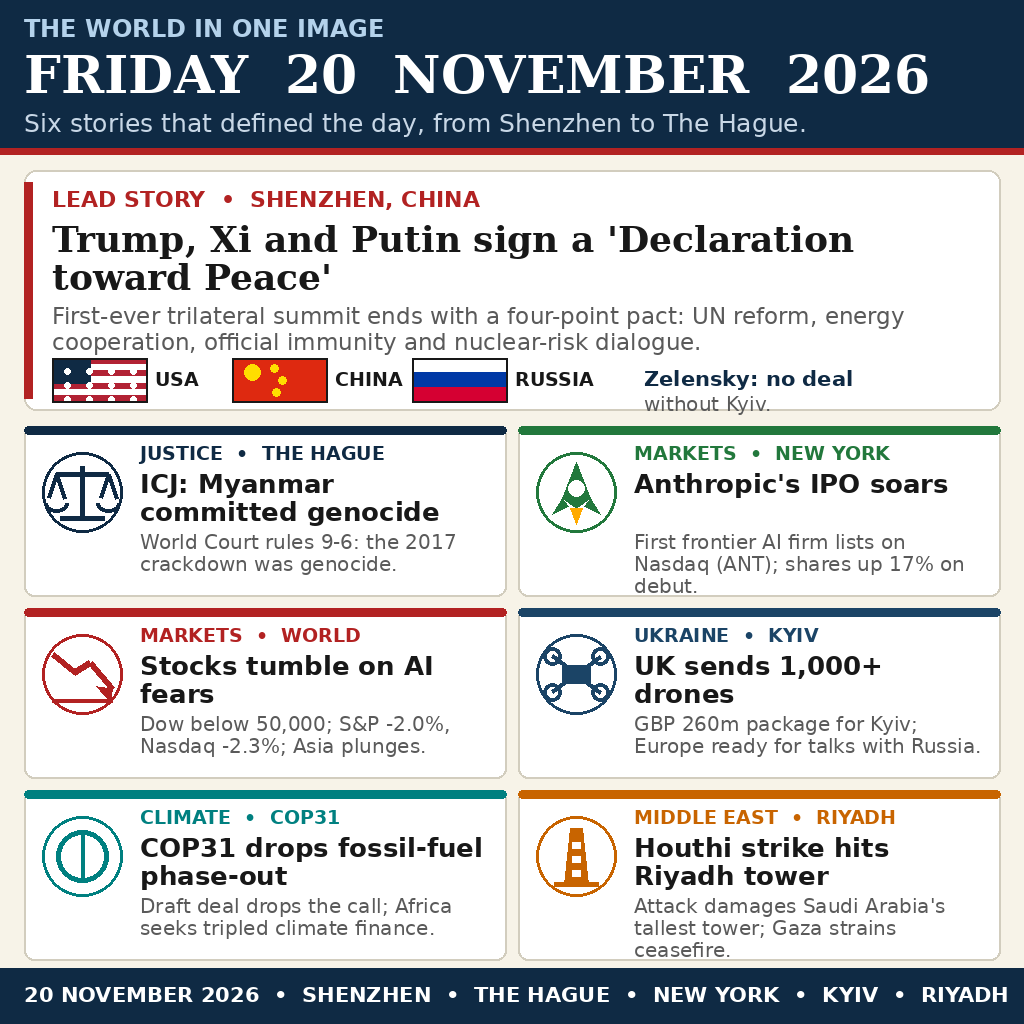
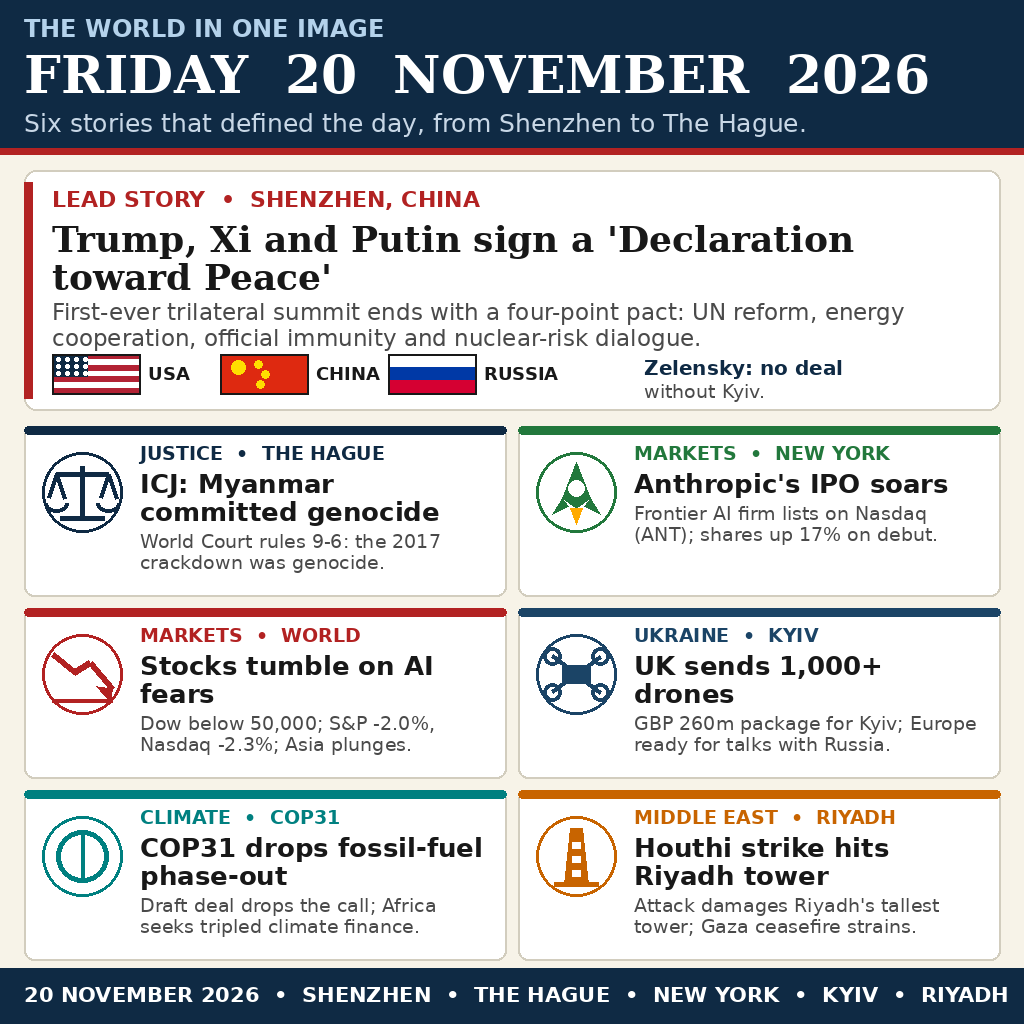
Polish news image: fix flag stars, lead-card spacing, card text clipping
US flag stars now fit the canton, Zelensky note no longer overlaps
RUSSIA label, card bodies flow below titles so nothing is clipped,
body grey darkened for small-size legibility.

diff --git a/draw_image.py b/draw_image.py
@@ -21,7 +21,7 @@ NAVY = (15, 42, 68)
 NAVY_LIGHT = (27, 68, 102)
 RED = (178, 34, 34)
 DARK = (24, 24, 24)
-GREY = (90, 90, 90)
+GREY = (74, 74, 74)
 WHITE = (255, 255, 255)
 CARD = (255, 255, 255)
 TEAL = (0, 128, 128)
@@ -74,18 +74,21 @@ def flag_us(draw, x, y, w, h):
     for i in range(7):
         draw.rectangle([x, y + i * h / 7, x + w, y + (i + 1) * h / 7],
                        fill=(178, 34, 52) if i % 2 == 0 else WHITE)
-    draw.rectangle([x, y, x + w * 0.4, y + h * 4 / 7], fill=NAVY)
+    # Canton is the top-left 40% wide, 4/7 tall. Keep every star
+    # inside it: 4 columns x 3 rows, 4px dots on a ~9px grid.
+    cw, chh = w * 0.4, h * 4 / 7
+    draw.rectangle([x, y, x + cw, y + chh], fill=NAVY)
     for r in range(3):
         for c in range(4):
-            cx = x + 12 + c * 22
-            cy = y + 10 + r * 14
-            draw.ellipse([cx, cy, cx + 6, cy + 6], fill=WHITE)
+            cx = x + 4 + c * 9
+            cy = y + 3 + r * 7
+            draw.ellipse([cx, cy, cx + 4, cy + 4], fill=WHITE)
 
 
 def flag_cn(draw, x, y, w, h):
     draw.rectangle([x, y, x + w, y + h], fill=(222, 41, 16))
-    for cx, cy, r in [(x + 20, y + 14, 8), (x + 42, y + 10, 4),
-                      (x + 50, y + 22, 4), (x + 44, y + 34, 4)]:
+    for cx, cy, r in [(x + 18, y + 13, 7), (x + 38, y + 10, 4),
+                      (x + 45, y + 20, 4), (x + 40, y + 30, 4)]:
         draw.ellipse([cx - r, cy - r, cx + r, cy + r], fill=(255, 222, 0))
 
 
@@ -169,8 +172,15 @@ def draw_card(draw, x, y, w, h, colour, kicker, title, body, icon):
     ICONS[icon](draw, x + 58, y + 66, colour)
     tx = x + 116
     draw.text((tx, y + 16), kicker, font=BOLD(19), fill=colour)
-    text_block(draw, tx, y + 42, title, BOLD(26), DARK, w - 132, leading=2)
-    text_block(draw, tx, y + 104, body, REG(20), GREY, w - 132, leading=2)
+    # Title first, then body directly below it (not at a fixed y),
+    # so a one-line title leaves room and a two-line title never
+    # pushes the body past the card bottom.
+    title_lines = wrap(draw, title, BOLD(26), w - 132)
+    ty = y + 42
+    for line in title_lines:
+        draw.text((tx, ty), line, font=BOLD(26), fill=DARK)
+        ty += 26 + 2
+    text_block(draw, tx, ty + 6, body, REG(19), GREY, w - 132, leading=2)
 
 
 def main():
@@ -197,32 +207,37 @@ def main():
     text_block(draw, lx + 28, ly + 48,
                "Trump, Xi and Putin sign a 'Declaration toward Peace'",
                SERIF_BOLD(36), DARK, 920, leading=2)
-    text_block(draw, lx + 28, ly + 132,
+    text_block(draw, lx + 28, ly + 128,
                "First-ever trilateral summit ends with a four-point pact: "
                "UN reform, energy cooperation, official immunity and "
                "nuclear-risk dialogue.",
                REG(23), GREY, 920, leading=3)
 
-    # Flags row inside the lead card, bottom right.
-    fy = ly + 188
+    # Flags row inside the lead card, with room to spare at the
+    # bottom: flags at ly+184, 40px tall, so the Zelensky second
+    # line (fy+24, 19pt) ends at ly+227, inside the 240px card.
+    # Tighter flag spacing (168px step, 88px flags) keeps the
+    # RUSSIA label clear of the Zelensky note on the right.
+    fy = ly + 184
     for i, (fn, label) in enumerate([(flag_us, "USA"), (flag_cn, "CHINA"),
                                      (flag_ru, "RUSSIA")]):
-        fx = lx + 28 + i * 180
-        fn(draw, fx, fy, 95, 44)
-        draw.rectangle([fx, fy, fx + 95, fy + 44], outline=DARK, width=2)
-        draw.text((fx + 103, fy + 10), label, font=BOLD(19), fill=DARK)
-    draw.text((lx + 620, fy + 8), "Zelensky: no deal",
-              font=BOLD(21), fill=NAVY)
-    draw.text((lx + 620, fy + 34), "without Kyiv.",
-              font=REG(20), fill=GREY)
+        fx = lx + 28 + i * 168
+        fn(draw, fx, fy, 88, 40)
+        draw.rectangle([fx, fy, fx + 88, fy + 40], outline=DARK, width=2)
+        draw.text((fx + 96, fy + 9), label, font=BOLD(18), fill=DARK)
+    draw.text((lx + 620, fy + 2), "Zelensky: no deal",
+              font=BOLD(20), fill=NAVY)
+    draw.text((lx + 620, fy + 26), "without Kyiv.",
+              font=REG(19), fill=GREY)
 
-    # Six-story grid.
+    # Six-story grid. Bodies shortened to two lines at 19pt so no
+    # third line runs into the card bottom edge.
     stories = [
         (NAVY, "JUSTICE  •  THE HAGUE", "ICJ: Myanmar committed genocide",
          "World Court rules 9-6: the 2017 crackdown was genocide.",
          "scales"),
         (GREEN, "MARKETS  •  NEW YORK", "Anthropic's IPO soars",
-         "First frontier AI firm lists on Nasdaq (ANT); shares up 17% on debut.",
+         "Frontier AI firm lists on Nasdaq (ANT); shares up 17% on debut.",
          "rocket"),
         (RED, "MARKETS  •  WORLD", "Stocks tumble on AI fears",
          "Dow below 50,000; S&P -2.0%, Nasdaq -2.3%; Asia plunges.",
@@ -234,7 +249,7 @@ def main():
          "Draft deal drops the call; Africa seeks tripled climate finance.",
          "leaf"),
         (ORANGE, "MIDDLE EAST  •  RIYADH", "Houthi strike hits Riyadh tower",
-         "Attack damages Saudi Arabia's tallest tower; Gaza strains ceasefire.",
+         "Attack damages Riyadh's tallest tower; Gaza ceasefire strains.",
          "tower"),
     ]
     gx, gy = 24, 426
